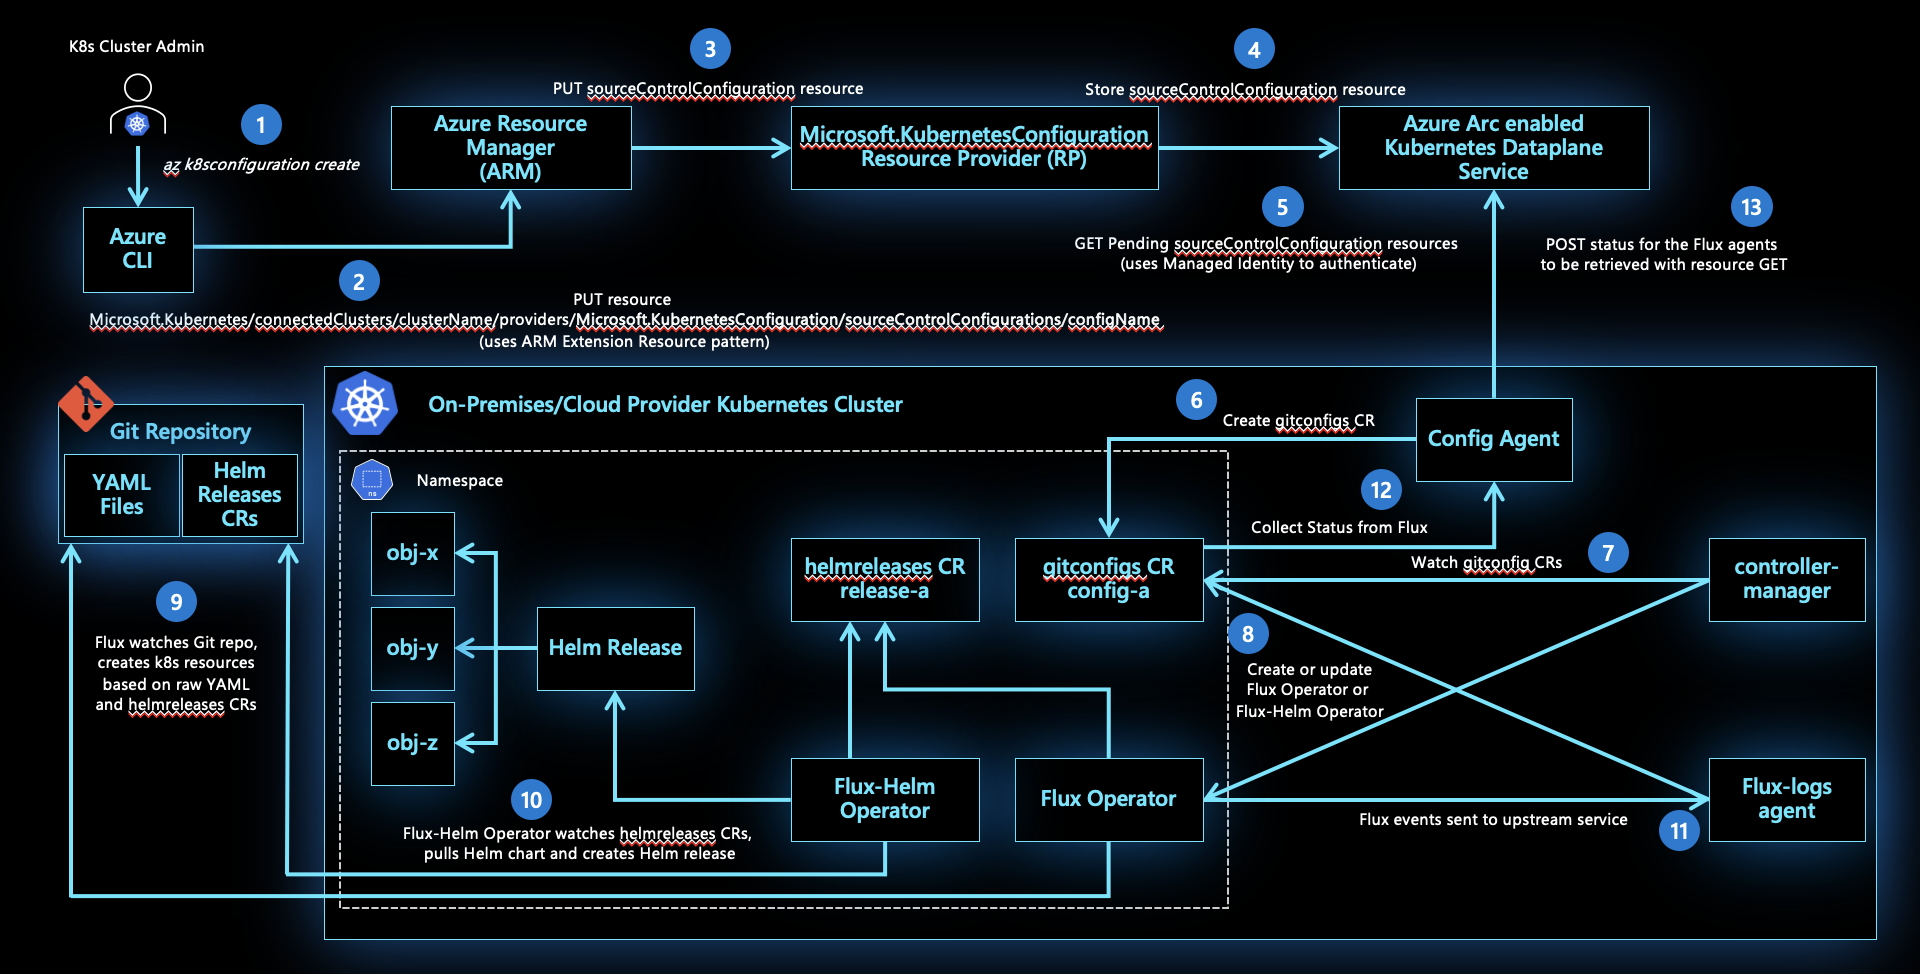
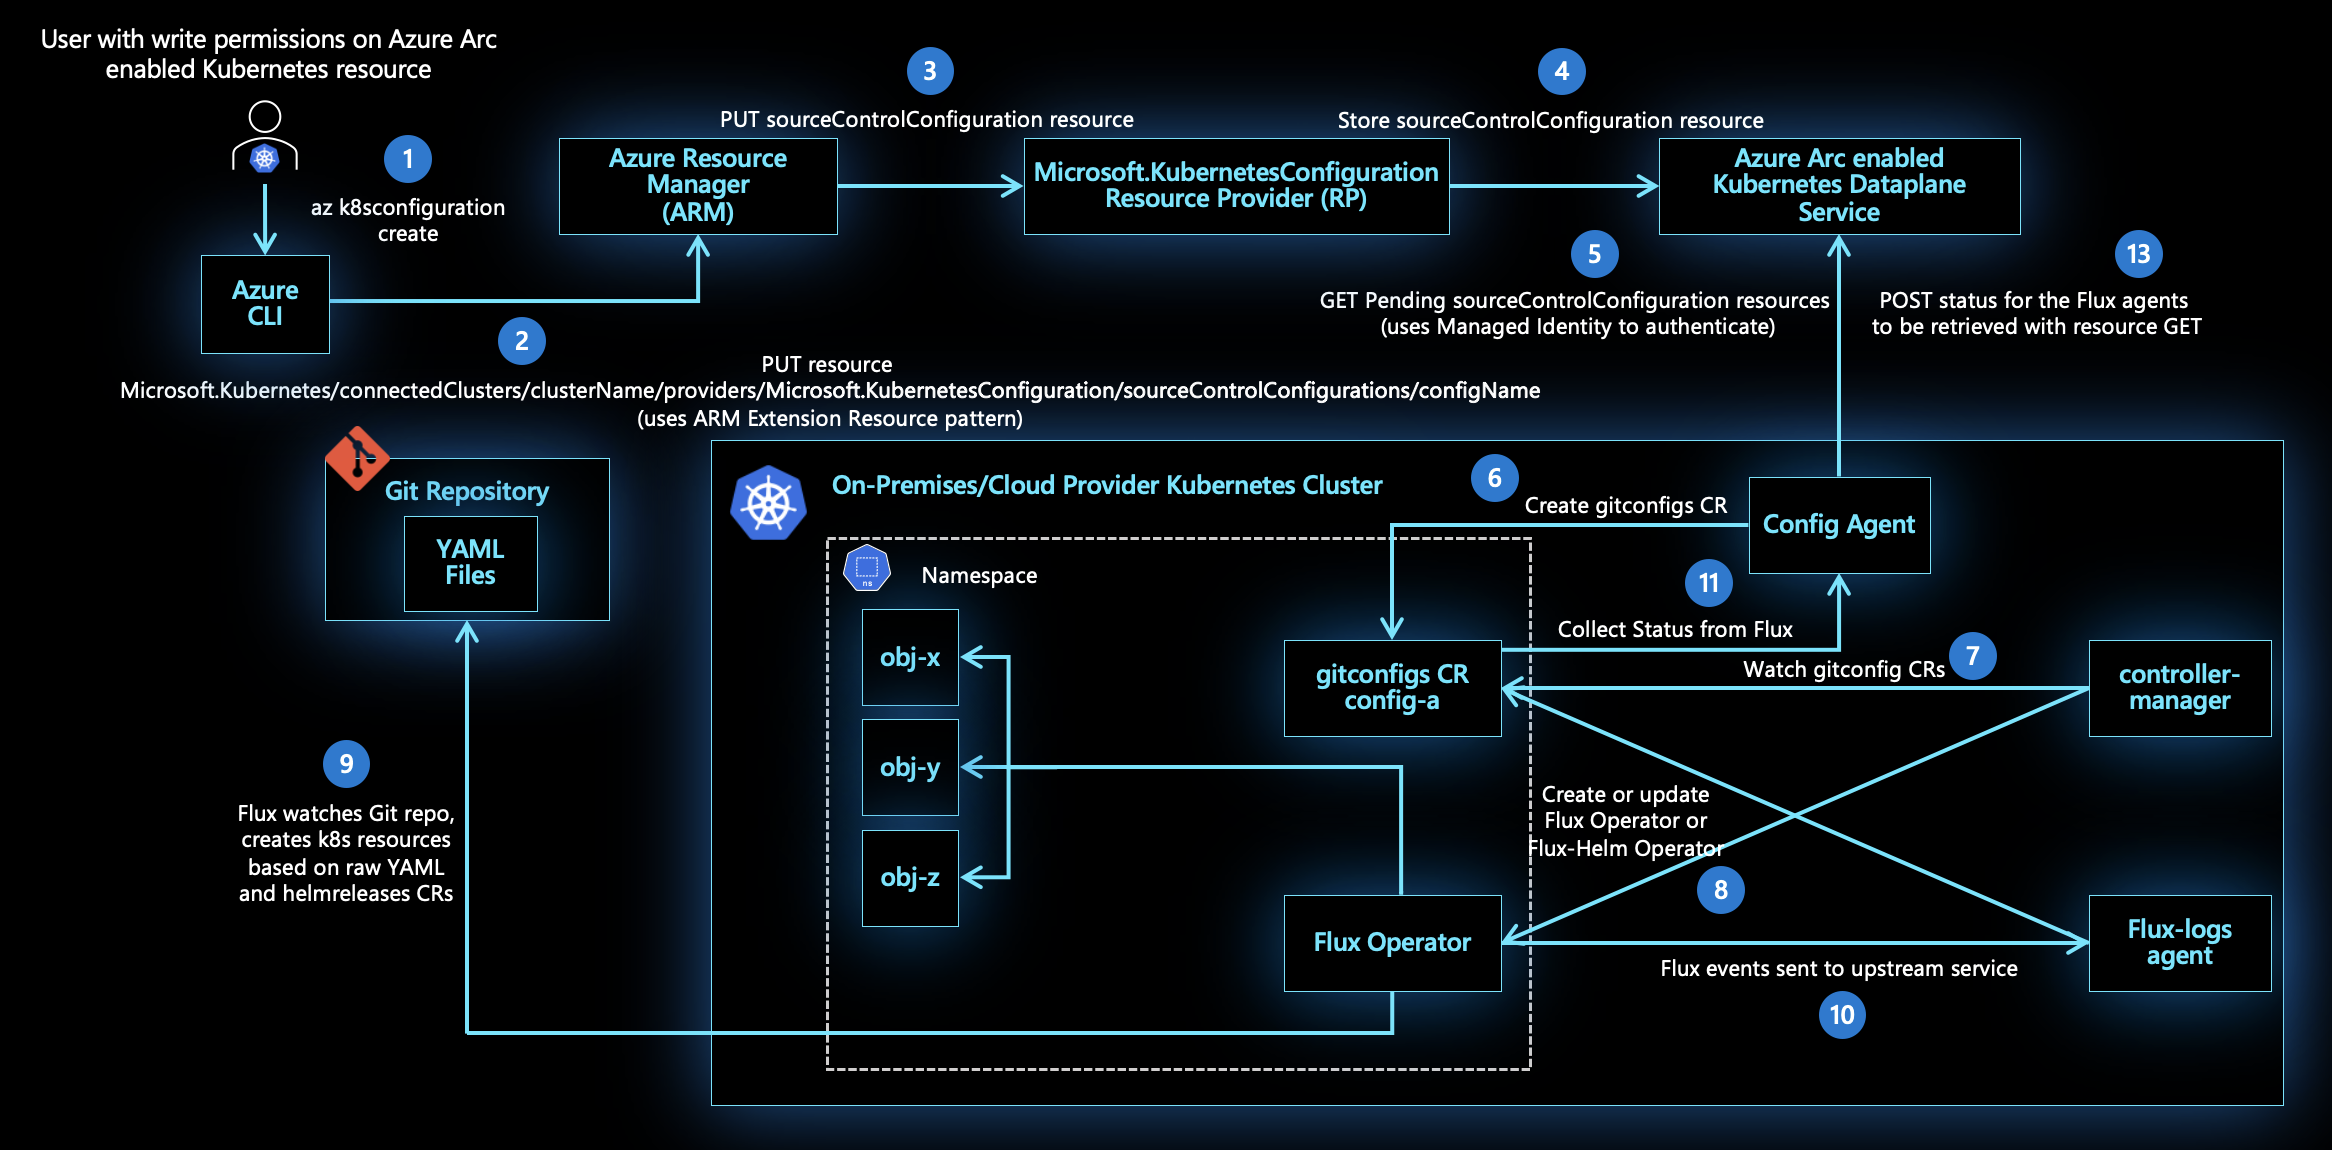
Update configurations architecture diagram

Changed region(s): [[0.0, 0.0308, 1.0, 1.0], [0.7188, 0.77, 1.0, 0.924], [0.5625, 0.7084, 0.5938, 0.7392]]

diff --git a/articles/azure-arc/kubernetes/conceptual-configurations.md b/articles/azure-arc/kubernetes/conceptual-configurations.md
@@ -14,7 +14,7 @@ keywords: "Kubernetes, Arc, Azure, containers, configuration, GitOps"
 
 ## GitOps
 
-GitOps, as it relates to Kubernetes, is the practice of declaring the desired state of Kubernetes configuration in a Git repository followed by a polling and pull-based deployment of these configurations to the cluster using an operator. The Git repository can contain YAML-format manifests that describe any valid Kubernetes resources, including Namespaces, ConfigMaps, Deployments, DaemonSets, etc. It may also contain Helm charts for deploying applications.
+In relation to Kubernetes, GitOps is the practice of declaring the desired state of Kubernetes configuration in a Git repository followed by a polling and pull-based deployment of these configurations to the cluster using an operator. The Git repository can contain YAML-format manifests that describe any valid Kubernetes resources, including Namespaces, ConfigMaps, Deployments, DaemonSets, etc. It may also contain Helm charts for deploying applications.
 
 [Flux](https://docs.fluxcd.io/), a popular open-source tool in the space of GitOps, can be deployed on the Kubernetes cluster to facilitate such flow of desired configurations from a Git repo to a Kubernetes cluster. Flux supports deployment of its operator at both cluster and namespace scope. A flux operator deployed with namespace scope is only able to deploy Kubernetes objects within that specific namespace and is not allowed to do so in other namespaces. The choice of cluster/namespace scope is useful in being able to achieve multi-tenant deployment patterns on the same Kubernetes cluster.
 
@@ -22,9 +22,14 @@ GitOps, as it relates to Kubernetes, is the practice of declaring the desired st
 
 ![Configurations architecture](./media/conceptual-configurations.png)
 
-The connection between your cluster and a Git repository is created in Azure Resource Manager as a `Microsoft.KubernetesConfiguration/sourceControlConfigurations` extension resource on top of the Azure Arc enabled Kubernetes resource represented by `Microsoft.Kubernetes/connectedClusters`. The `sourceControlConfiguration` resource properties are used to deploy Flux operator on the cluster with the appropriate parameters like which Git repo to pull manifests from and what polling interval to pull them at. The `sourceControlConfiguration` data is stored encrypted at rest in an Azure Cosmos DB database to ensure data confidentiality.
+The connection between your cluster and a Git repository is created as a `Microsoft.KubernetesConfiguration/sourceControlConfigurations` extension resource on top of the Azure Arc enabled Kubernetes resource (represented by `Microsoft.Kubernetes/connectedClusters`) in Azure Resource Manager. The `sourceControlConfiguration` resource properties are used to deploy Flux operator on the cluster with the appropriate parameters such as which Git repo to pull manifests from and what polling interval to pull them at. The `sourceControlConfiguration` data is stored encrypted, at rest in an Azure Cosmos DB database to ensure data confidentiality.
 
-The `config-agent` running in your cluster is responsible for watching for new or updated `sourceControlConfiguration` extension resources on the Azure Arc enabled Kubernetes resource, for deploying a Flux operator to watch the Git repository for each `sourceControlConfiguration`, and applying any updates made to any `sourceControlConfiguration`. It is possible to create multiple namespace scoped `sourceControlConfiguration` resources on the same Azure Arc enabled Kubernetes cluster to achieve multi-tenancy.
+The `config-agent` running in your cluster is responsible for watching for:
+* Tracking new or updated `sourceControlConfiguration` extension resources on the Azure Arc enabled Kubernetes resource
+* For deploying a Flux operator to watch the Git repository for each `sourceControlConfiguration`
+* Applying any updates made to any `sourceControlConfiguration`. 
+
+It is possible to create multiple namespace scoped `sourceControlConfiguration` resources on the same Azure Arc enabled Kubernetes cluster to achieve multi-tenancy.
 
 > [!NOTE]
 > 1. Because the config-agent needs to watch for new or updated `sourceControlConfiguration` extension resources to be available on Azure Arc enabled Kubernetes resource, the agents needs to obtain connectivity for the desired state to be pulled down to the cluster. So during the course of time when the agents weren't able to connect to Azure, the desired state properties declared on the `sourceControlConfiguration` resource in Azure Resource Manager are not applied on the cluster.

diff --git a/articles/azure-arc/kubernetes/use-gitops-connected-cluster.md b/articles/azure-arc/kubernetes/use-gitops-connected-cluster.md
@@ -13,7 +13,7 @@ keywords: "GitOps, Kubernetes, K8s, Azure, Arc, Azure Kubernetes Service, AKS, c
 
 # Deploy configurations using GitOps on Arc enabled Kubernetes cluster (Preview)
 
-This getting started guide will walk you through applying a set of configurations on an Azure Arc enabled Kubernetes cluster.
+This getting started guide will walk you through applying configurations on an Azure Arc enabled Kubernetes cluster.
 
 ## Before you begin
 
@@ -24,7 +24,6 @@ Also checkout the [conceptual doc](./conceptual-configurations.md) on configurat
 ## Create a configuration
 
 The [example repository](https://github.com/Azure/arc-k8s-demo) used in this article is structured around the persona of a cluster operator who would like to provision a few namespaces, deploy a common workload, and provide some team-specific configuration. Using this repository creates the following resources on your cluster:
-
 
 * **Namespaces:** `cluster-config`, `team-a`, `team-b`
 * **Deployment:** `cluster-config/azure-vote`
